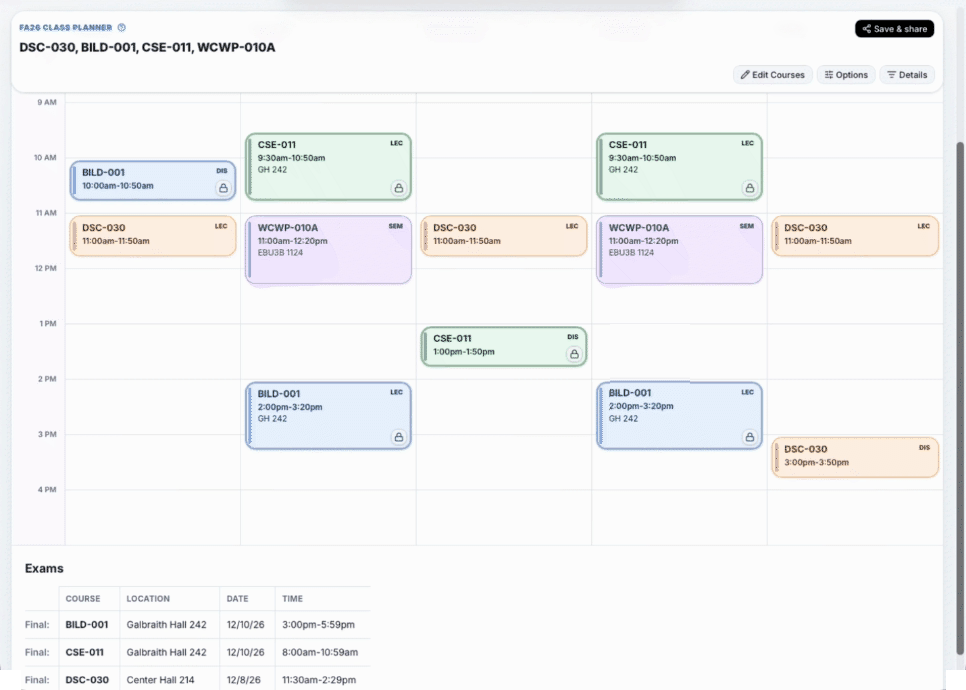
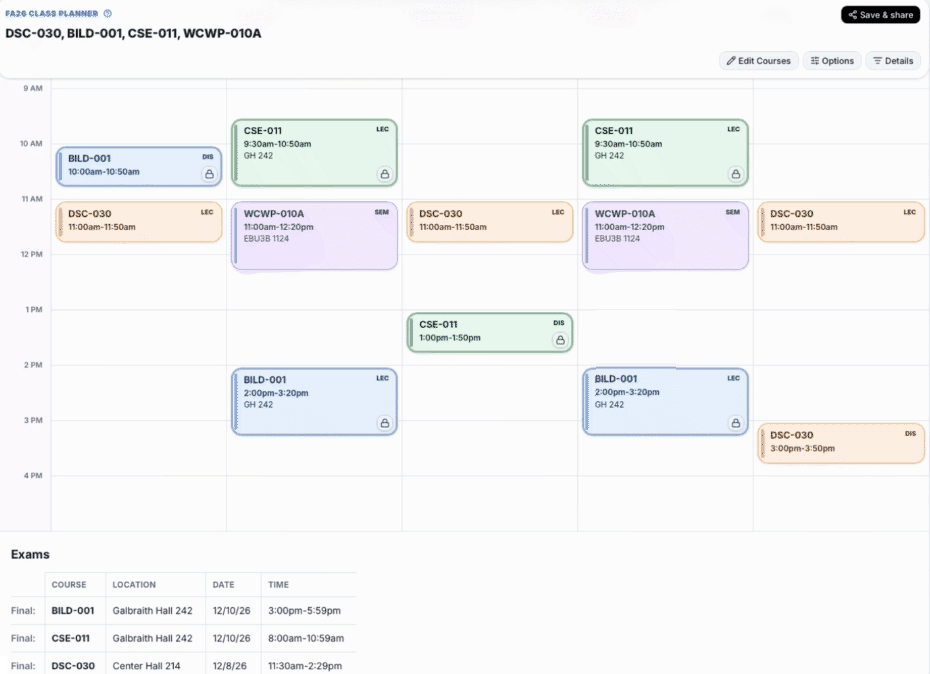
Crop window chrome from wide screenshots
Crop calendar, swap, and share-export captures to just inside the app
window frame (966x690 -> 930x674), removing the baked rounded corners,
border, and scrollbar. Update dimension references.

diff --git a/index.html b/index.html
@@ -298,10 +298,10 @@
               alt="Schedule alternative with navigation controls, weekly meetings, and an exams table"
               class="img-responsive"
               decoding="async"
-              height="690"
+              height="674"
               loading="lazy"
               src="assets/img/planner-calendar.png"
-              width="966"
+              width="930"
             >
             <figcaption>
               Example schedule alternative. Select a course block to open its section information
@@ -351,10 +351,10 @@
                   alt="Swap Section panel comparing the current course sections with other combinations"
                   class="img-responsive"
                   decoding="async"
-                  height="690"
+                  height="674"
                   loading="lazy"
                   src="assets/img/planner-swap.png"
-                  width="966"
+                  width="930"
                 >
                 <figcaption>
                   Example section-combination preview. Availability may change before enrollment.

diff --git a/assets/css/site.css b/assets/css/site.css
@@ -387,7 +387,7 @@ button:focus,
 }
 
 .screenshot-wide img {
-  width: 966px;
+  width: 930px;
 }
 
 .term-list {

diff --git a/README.md b/README.md
@@ -40,10 +40,10 @@ WCWP-010A. They contain no authenticated or student-specific information.
 | --- | ---: | --- |
 | `planner-search.png` | 520 × 520 | Course search and selected-course list (hero image; video fallback link) |
 | `planner-preferences.png` | 746 × 480 | Enrollment, goals, time limits, preferred windows, and commitments (video fallback link) |
-| `planner-calendar.png` | 966 × 690 | Alternative controls, weekly calendar, and exams |
-| `planner-swap.png` | 966 × 690 | Complete section-combination preview and selection |
+| `planner-calendar.png` | 930 × 674 | Alternative controls, weekly calendar, and exams |
+| `planner-swap.png` | 930 × 674 | Complete section-combination preview and selection |
 | `planner-details.png` | 966 × 660 | Meeting, seat, waitlist, section ID, exam, and freshness details |
-| `planner-share-export.png` | 966 × 690 | Saved schedule, enrollment notice, and calendar export (video fallback link) |
+| `planner-share-export.png` | 930 × 674 | Saved schedule, enrollment notice, and calendar export (video fallback link) |
 | `planner-build-poster.png` | 966 × 720 | Poster frame for `planner-build.mp4` |
 | `planner-preferences-poster.png` | 966 × 720 | Poster frame for `planner-preferences.mp4` |
 | `planner-share-poster.png` | 966 × 720 | Poster frame for `planner-share.mp4` |